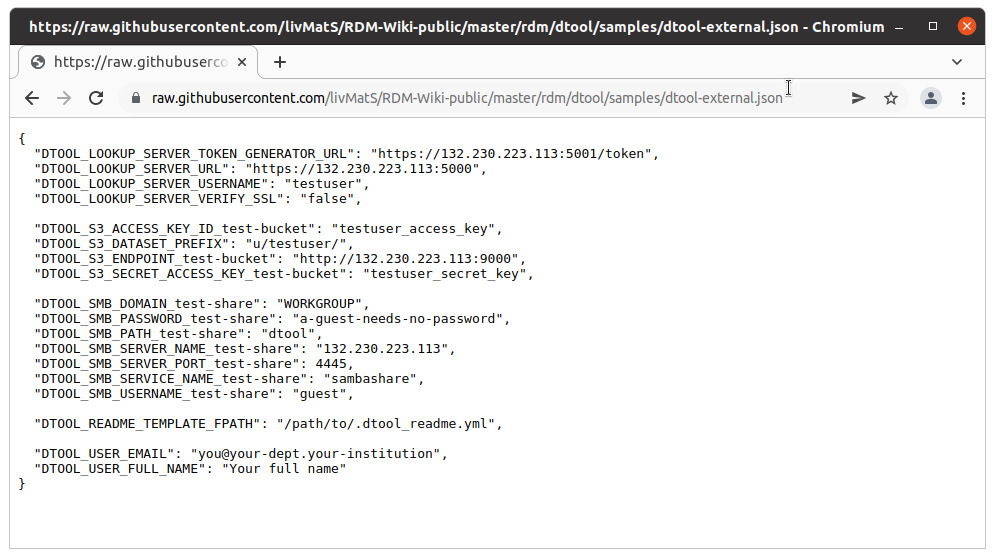
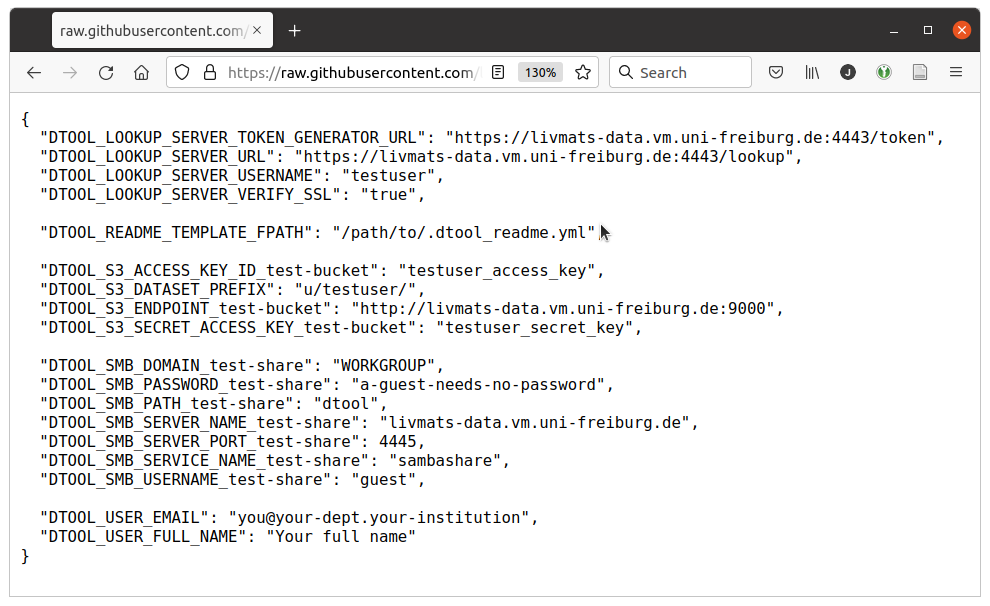
MAINT: Updated config screenshot

Changed region(s): [[0.0, 0.0, 1.0, 0.914], [0.0303, 0.9749, 0.9697, 1.0]]

diff --git a/rdm/dtool/src/020_gui/005_quick_start.md b/rdm/dtool/src/020_gui/005_quick_start.md
@@ -37,7 +37,7 @@ Open the main menu by clicking the *burger* menu in the upper right corner and s
 Download the sample configuration for a testing server instance at
 [`dtool.json`](https://github.com/livMatS/RDM-Wiki-public/releases/latest/download/dtool.json).
 
-![Sample dtool.json](./img/032_download_dtool_json_save_as.png)
+![Sample dtool.json](./img/030_download_dtool_json.png)
 
 Import it via the *import* in the *settings* dialog
 
